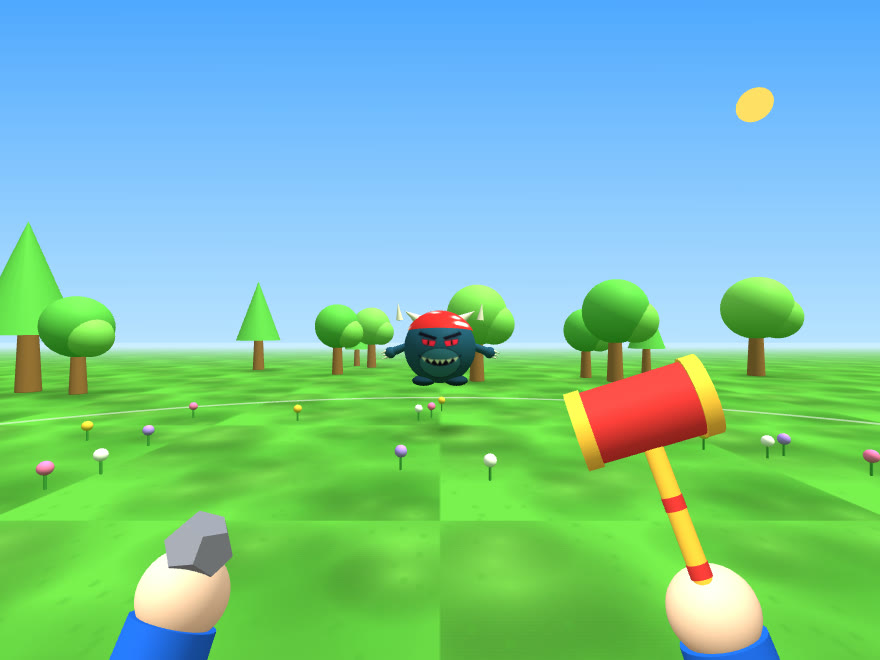
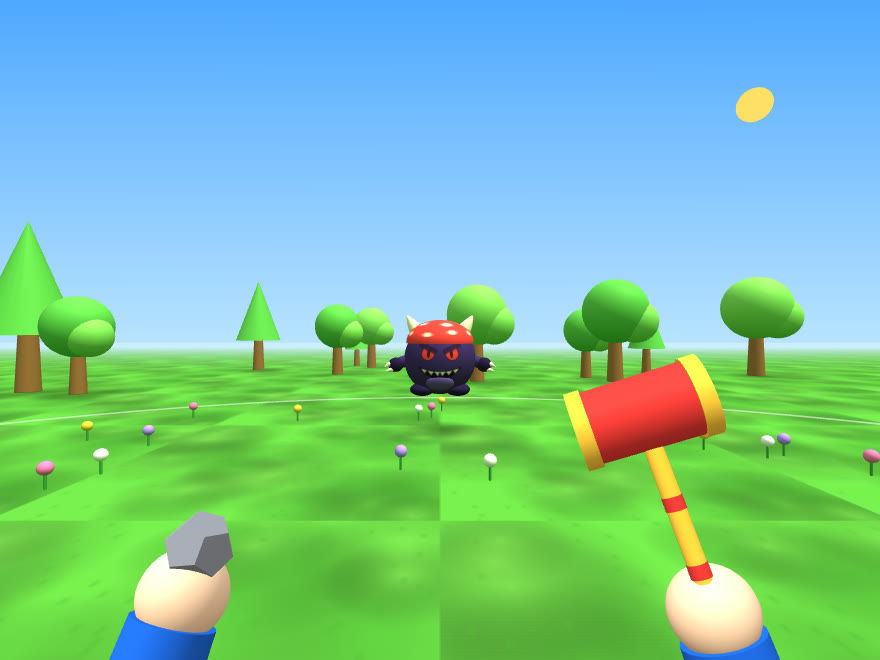
feat: DOUMY 3D 주인공과 더미를 말랑 장난감 모습으로 바꾸기
- Codex 이미지로 만든 캐릭터 시안을 보고 Codex가 3D 모델을 고침
- 주인공: 덥수룩한 갈색 머리, 발그레한 볼, 별 무늬 후드티,
  둥근 운동화, 뒤로 휘어 펄럭이는 망토
- 더미: 밝은 배 무늬, 굵은 눈썹과 이빨 웃음, 둥근 발톱 팔과 발.
  색 바뀜, 맵별 모자, 왕관·보스·무지개 더미는 그대로
- 대표 그림(thumb.jpg)을 새 더미 모습으로 다시 찍음

Changed region(s): [[0.4295, 0.4545, 0.583, 0.6061]]

diff --git a/games/doumy/index.html b/games/doumy/index.html
@@ -1389,12 +1389,9 @@ function geos(){
   GEO = {
     body: shared(new THREE.SphereGeometry(DR, 32, 24)),
     face: shared(new THREE.SphereGeometry(DR * 1.012, 32, 20, Math.PI / 2 - Math.PI * 0.45, Math.PI * 0.9, Math.PI * 0.25, Math.PI * 0.6)),
-    hornA: shared(new THREE.ConeGeometry(DR * 0.17, DR * 0.55, 12)),
-    hornB: shared(new THREE.ConeGeometry(DR * 0.1, DR * 0.5, 10)),
-    foot: shared(new THREE.SphereGeometry(DR * 0.32, 14, 10)),
-    arm: shared(new THREE.CylinderGeometry(DR * 0.1, DR * 0.12, DR * 0.5, 10)),
-    hand: shared(new THREE.SphereGeometry(DR * 0.16, 10, 8)),
-    claw: shared(new THREE.ConeGeometry(DR * 0.045, DR * 0.2, 6)),
+    horn: shared(new THREE.LatheGeometry([[0, 0], [0.15, 0], [0.185, 0.045], [0.18, 0.11], [0.13, 0.27], [0.055, 0.44], [0.018, 0.49], [0, 0.5]].map(([r, y]) => new THREE.Vector2(r * DR, y * DR)), 18)),
+    cap: shared(new THREE.SphereGeometry(DR, 32, 16, 0, Math.PI * 2, 0, Math.PI * 0.52)),
+    ball: shared(new THREE.SphereGeometry(1, 20, 16)),
     shell: shared(new THREE.SphereGeometry(DR * 1.15, 24, 18)),
     shadow: shared(new THREE.CircleGeometry(DR * 0.95, 24)),
     ring: shared(new THREE.RingGeometry(DR * 0.9, DR * 1.1, 32))
@@ -1402,8 +1399,6 @@ function geos(){
   return GEO;
 }
 // 얼굴 그림을 공 모양에 맞게 펴서 그려요 (2편과 같은 방법)
-const BROW  = [[-0.576,-0.455],[-0.061,-0.303],[-0.121,-0.242],[-0.606,-0.379]];
-const EYEP  = [[-0.515,-0.273],[-0.091,-0.212],[-0.152,-0.061],[-0.455,-0.121]];
 const TEETH = [[-0.515,0.197],[-0.424,0.333],[-0.333,0.242],[-0.242,0.379],[-0.152,0.273],[-0.061,0.409],[0,0.288],[0.061,0.409],[0.152,0.273],[0.242,0.379],[0.333,0.242],[0.424,0.333],[0.515,0.197]];
 function paintFace(g, P, mood){
   g.clearRect(0, 0, 512, 256);
@@ -1412,10 +1407,6 @@ function paintFace(g, P, mood){
     const ax = Math.asin(Math.max(-1, Math.min(1, x / st)));
     g.save(); g.translate(256 + ax * 181, (th - Math.PI * 0.25) / (Math.PI * 0.6) * 256); g.scale(181 / st, 136 / st); fn(); g.restore();
   };
-  const poly = (pts, ox, oy) => { g.beginPath(); pts.forEach(([x, y], i) => i ? g.lineTo(x - ox, y - oy) : g.moveTo(x - ox, y - oy)); g.closePath(); g.fill(); };
-  const mir = pts => pts.map(([x, y]) => [-x, y]);
-  // 배
-  at(0, 0.42, () => { g.fillStyle = P.belly; g.beginPath(); g.ellipse(0, 0, 0.56, 0.42, 0, 0, Math.PI * 2); g.fill(); });
   if (mood === 'dead'){
     g.strokeStyle = '#ffffff'; g.lineCap = 'round';
     for (const sx of [-1, 1]) at(sx * 0.3, -0.17, () => {
@@ -1425,27 +1416,25 @@ function paintFace(g, P, mood){
     return;
   }
   const laugh = mood === 'laugh';
-  // 눈썹
-  at(-0.33, -0.37, () => { g.fillStyle = '#0f0a1a'; poly(BROW, -0.33, -0.37); });
-  at(0.33, -0.37, () => { g.fillStyle = '#0f0a1a'; poly(mir(BROW), 0.33, -0.37); });
-  // 빨간 눈
-  const sq = laugh ? 0.4 : 1;
-  const eye = EYEP.map(([x, y]) => [x, -0.167 + (y + 0.167) * sq]);
-  at(-0.3, -0.17, () => {
-    g.fillStyle = '#ff2240'; poly(eye, -0.3, -0.17);
-    if (!laugh){ g.fillStyle = '#111111'; g.fillRect(-0.025, -0.06, 0.05, 0.12); }
-  });
-  at(0.3, -0.17, () => {
-    g.fillStyle = '#ff2240'; poly(mir(eye), 0.3, -0.17);
-    if (!laugh){ g.fillStyle = '#111111'; g.fillRect(-0.025, -0.06, 0.05, 0.12); }
-  });
+  // 눈을 흘기고 씩 웃어요
+  for (const side of [-1, 1]){
+    at(side * 0.32, -0.19, () => {
+      g.scale(side, laugh ? 0.55 : 1);
+      g.fillStyle = '#f33c30'; g.beginPath(); g.ellipse(0, 0, 0.18, 0.17, -0.2, 0, Math.PI * 2); g.fill();
+      g.fillStyle = '#211524'; g.beginPath(); g.ellipse(-0.025, 0.005, 0.038, 0.106, 0, 0, Math.PI * 2); g.fill();
+    });
+    at(side * 0.32, -0.34, () => {
+      g.scale(side, 1); g.lineCap = 'round'; g.lineWidth = 0.115; g.strokeStyle = '#331d39';
+      g.beginPath(); g.moveTo(-0.19, 0.085); g.quadraticCurveTo(0, 0.025, 0.21, -0.105); g.stroke();
+    });
+  }
   // 톱니 이빨 입
   at(0, 0.27, () => {
-    const oy = 0.27, open = laugh ? 0.95 : 0.758;
+    const oy = 0.27, open = laugh ? 1.04 : 0.86;
     g.fillStyle = '#12091f';
     g.beginPath(); g.moveTo(-0.606, 0.152 - oy);
     g.quadraticCurveTo(0, open - oy, 0.606, 0.152 - oy); g.quadraticCurveTo(0, 0.394 - oy, -0.606, 0.152 - oy); g.fill();
-    g.fillStyle = '#fffbe6';
+    g.fillStyle = '#fff0ce';
     g.beginPath(); TEETH.forEach(([x, y], i) => i ? g.lineTo(x, y - oy) : g.moveTo(x, y - oy));
     g.quadraticCurveTo(0, 0.364 - oy, -0.515, 0.197 - oy); g.fill();
   });
@@ -1455,12 +1444,16 @@ function stripeTex(c1, c2, n){ return texFrom(128, 128, (g) => { for (let i = 0;
 function addCostume(rig, m){
   const top = DR * 2.02;
   if (m === 'basic'){
-    const dots = texFrom(128, 64, (g) => { g.fillStyle = '#c62828'; g.fillRect(0, 0, 128, 64); g.fillStyle = '#ffffff'; for (let i = 0; i < 14; i++){ g.beginPath(); g.arc(rnd(i + 900) * 128, rnd(i + 910) * 64, 4, 0, 7); g.fill(); } });
-    const cap = mesh(new THREE.SphereGeometry(DR * 1.04, 24, 12, 0, Math.PI * 2, 0, Math.PI * 0.36), L('#ffffff', { map: dots }), 0, DR, 0, rig);
-    cap.rotation.x = -0.12;
-    const knot = L('#a61d1d');
-    const k1 = mesh(new THREE.ConeGeometry(DR * 0.12, DR * 0.45, 6), knot, 0, DR * 1.55, -DR * 0.95, rig); k1.rotation.x = -2.2;
-    const k2 = mesh(new THREE.ConeGeometry(DR * 0.12, DR * 0.4, 6), knot, DR * 0.12, DR * 1.4, -DR * 1.0, rig); k2.rotation.set(-2.6, 0, 0.5);
+    const dots = texFrom(256, 128, g => {
+      g.fillStyle = '#ed4039'; g.fillRect(0, 0, 256, 128); g.fillStyle = '#fff2d0';
+      for (const [count, y, rx, ry] of [[5, 49, 10, 9], [8, 92, 6, 8]]){
+        for (let i = 0; i < count; i++){
+          g.beginPath(); g.ellipse((i + 0.5) * 256 / count, y + 5 * Math.sin(i * 2), rx, ry, 0, 0, Math.PI * 2); g.fill();
+        }
+      }
+    });
+    const cap = mesh(geos().cap, L('#ffffff', { map: dots, side: THREE.DoubleSide }), 0, DR * 1.48, 0, rig);
+    cap.scale.set(0.94, 0.61, 0.91);
   } else if (m === 'city'){
     const band = mesh(new THREE.TorusGeometry(DR * 1.02, DR * 0.07, 8, 24, Math.PI), L('#222222'), 0, DR * 1.05, 0, rig);
     band.rotation.y = Math.PI / 2;
@@ -1492,22 +1485,30 @@ function makeModel(d){
   const faceTex = new THREE.CanvasTexture(fc);
   const face = mesh(G.face, L('#ffffff', { map: faceTex, transparent: true, alphaTest: 0.04 }), 0, DR, 0, rig); face.scale.copy(body.scale);
   // 큰 상아색 뿔
-  const hornMat = L('#e6e0d0');
+  const hornMat = L('#fff0cb');
   for (const sx of [-1, 1]){
-    const hg = new THREE.Group(); hg.position.set(sx * DR * 0.55, DR * 1.75, 0); hg.rotation.z = -sx * 1.0; rig.add(hg);
-    mesh(G.hornA, hornMat, 0, DR * 0.25, 0, hg);
-    const tip = mesh(G.hornB, hornMat, sx * DR * 0.1, DR * 0.65, 0, hg); tip.rotation.z = sx * 0.9;
+    const horn = mesh(G.horn, hornMat, sx * DR * 0.66, DR * 1.79, 0, rig);
+    horn.rotation.z = -sx * 0.55;
   }
   const footMat = L(P.deep), feet = [];
-  // 발은 몸(rig)에 붙여서 뛸 때 같이 올라가요
-  for (const sx of [-1, 1]){ const f = mesh(G.foot, footMat, sx * DR * 0.45, DR * 0.1, DR * 0.12, rig); f.scale.set(1, 0.45, 1.3); feet.push(f); }
-  // 발톱 팔
+  // 통통한 배와 작은 발
+  const belly = mesh(G.ball, L(P.belly), 0, DR * 0.40, DR * 0.70, rig);
+  belly.scale.set(DR * 0.37, DR * 0.23, DR * 0.14); belly.rotation.x = 0.58;
+  for (const sx of [-1, 1]){
+    const f = mesh(G.ball, footMat, sx * DR * 0.49, DR * 0.17, DR * 0.16, rig);
+    f.scale.set(DR * 0.34, DR * 0.18, DR * 0.40); feet.push(f);
+  }
   const arms = [];
   for (const sx of [-1, 1]){
-    const pivot = new THREE.Group(); pivot.position.set(sx * DR * 0.9, DR * 1.05, 0); rig.add(pivot);
-    mesh(G.arm, bodyMat, 0, -DR * 0.25, 0, pivot);
-    mesh(G.hand, bodyMat, 0, -DR * 0.52, 0, pivot);
-    for (let c = -1; c <= 1; c++){ const cl = mesh(G.claw, hornMat, c * DR * 0.08, -DR * 0.7, DR * 0.05, pivot); cl.rotation.x = Math.PI; }
+    const pivot = new THREE.Group(); pivot.position.set(sx * DR * 0.86, DR * 0.99, DR * 0.08); rig.add(pivot);
+    const arm = mesh(G.ball, bodyMat, 0, -DR * 0.19, 0, pivot);
+    arm.scale.set(DR * 0.16, DR * 0.29, DR * 0.17);
+    const paw = mesh(G.ball, footMat, 0, -DR * 0.39, DR * 0.06, pivot);
+    paw.scale.set(DR * 0.20, DR * 0.21, DR * 0.20);
+    for (const c of [-1, 1]){
+      const claw = mesh(G.horn, hornMat, c * DR * 0.083, -DR * 0.51, DR * 0.14, pivot);
+      claw.scale.setScalar(0.38); claw.rotation.set(2.85, 0, c * 0.13);
+    }
     arms.push(pivot);
   }
   if (d.rainbow){
@@ -1676,44 +1677,94 @@ function buildHero(){
   hero = new THREE.Group(); hero.visible = false; scene.add(hero);
   const skin = L('#ffd9b3'), shirt = L(lk.shirt), pants = L(lk.pants), shoe = L(lk.shoe);
   const u = { legs: [], prop: null, cape: null };
+  const ball = (mat, x, y, z, rx, ry, rz, parent = hero) => {
+    const part = mesh(geos().ball, mat, x, y, z, parent);
+    part.scale.set(rx, ry, rz); return part;
+  };
+  const cream = L('#fff3de');
   for (const sx of [-1, 1]){
-    const lp = new THREE.Group(); lp.position.set(sx * 8, 44, 0); hero.add(lp);
-    mesh(new THREE.CylinderGeometry(5.5, 5, 40, 10), pants, 0, -20, 0, lp);
-    mesh(new THREE.BoxGeometry(12, 7, 18), shoe, 0, -41, 3, lp);
+    const lp = new THREE.Group(); lp.position.set(sx * 9, 44, 0); hero.add(lp);
+    ball(pants, 0, -17, 0, 8.5, 23, 8.5, lp);
+    ball(cream, 0, -40, 4, 9, 4, 13, lp);
+    ball(shoe, 0, -36, 4, 9, 6, 12.7, lp);
+    ball(cream, 0, -32, 9, 5.5, 1.5, 2, lp);
     u.legs.push(lp);
   }
-  if (m === 'halloween') mesh(new THREE.CylinderGeometry(14, 22, 60, 14), shirt, 0, 58, 0, hero);
-  else mesh(new THREE.CylinderGeometry(15, 16, 40, 14), shirt, 0, 64, 0, hero);
-  if (m === 'basic'){ const st = mesh(new THREE.OctahedronGeometry(7), L('#ffcf3f'), 0, 68, 15, hero); st.scale.set(1, 1, 0.3); }
+  ball(shirt, 0, 63, 0, 21, 24, 16);
+  ball(shirt, 0, 48, 0, 19, 7, 14);
+  if (m === 'halloween') mesh(new THREE.CylinderGeometry(14, 22, 39, 20), shirt, 0, 55, 0, hero);
+  if (m === 'basic'){
+    const star = new THREE.Shape();
+    for (let i = 0; i < 10; i++){
+      const a = Math.PI / 2 + i * Math.PI / 5, r = i % 2 ? 4.3 : 8;
+      if (i) star.lineTo(r * Math.cos(a), r * Math.sin(a)); else star.moveTo(0, r);
+    }
+    star.closePath();
+    mesh(new THREE.ExtrudeGeometry(star, { depth: 0.8, bevelThickness: 0.7, bevelSize: 0.7, bevelSegments: 2 }), L('#ffcf44'), 0, 66, 15.3, hero);
+  }
   if (m === 'park') [56, 68].forEach(y => { const r = mesh(new THREE.TorusGeometry(15.6, 1.8, 6, 20), L('#e53935'), 0, y, 0, hero); r.rotation.x = Math.PI / 2; });
   if (m === 'city') mesh(new THREE.BoxGeometry(18, 9, 4), L('#37474f'), 0, 56, 15, hero);
   if (m === 'basic' || m === 'halloween'){
-    const capeP = new THREE.Group(); capeP.position.set(0, 82, -15); hero.add(capeP);
-    mesh(new THREE.PlaneGeometry(34, 62), L(m === 'basic' ? '#e53935' : '#1a0a2e', { side: THREE.DoubleSide }), 0, -31, 0, capeP);
+    const capeP = new THREE.Group(); capeP.position.set(0, 82, -10); hero.add(capeP);
+    const cloth = new THREE.PlaneGeometry(2, 1, 16, 10), pos = cloth.attributes.position;
+    for (let i = 0; i < pos.count; i++){
+      const x = pos.getX(i), t = 0.5 - pos.getY(i);
+      pos.setXYZ(i, x * (13 + 13 * t), -54 * t + 2 * t * t * Math.cos(5 * x),
+        -5 - 11 * t + 7 * x * x + 1.6 * t * Math.cos(7 * x));
+    }
+    cloth.computeVertexNormals();
+    mesh(cloth, L(m === 'basic' ? '#df3737' : '#30153f', { side: THREE.DoubleSide }), 0, 0, 0, capeP);
     u.cape = capeP;
   }
-  mesh(new THREE.SphereGeometry(16, 18, 14), skin, 0, 101, 0, hero);
-  mesh(new THREE.SphereGeometry(16.8, 18, 10, 0, Math.PI * 2, 0, Math.PI * 0.5), L('#3b2a20'), 0, 103, -1, hero);
-  [-1, 1].forEach(sx => mesh(new THREE.SphereGeometry(2.2, 8, 6), L('#2a1f45'), sx * 5.5, 102, 15, hero));
-  if (m === 'basic') mesh(new THREE.BoxGeometry(31, 6, 4), L('#1e63d6'), 0, 102, 13.5, hero);
+  // 후드는 목 뒤에 폭신하게 걸쳐요
+  ball(shirt, 0, 80, -11, 20, 10, 11);
+  const faceMap = texFrom(512, 256, g => {
+    g.fillStyle = '#ffd3af'; g.fillRect(0, 0, 512, 256);
+    const oval = (x, y, w, h, color) => {
+      g.fillStyle = color; g.beginPath(); g.ellipse(x, y, w, h, 0, 0, Math.PI * 2); g.fill();
+    };
+    for (const side of [-1, 1]){
+      const x = 128 + side * 29;
+      oval(x, 128, 12, 18, '#fff5e4'); oval(x, 129, 8, 14, '#412a25');
+      oval(x - 2, 123, 2.7, 3.6, '#ffffff'); oval(128 + side * 47, 151, 12, 7, '#f6a08e');
+      g.strokeStyle = '#75432d'; g.lineWidth = 5; g.lineCap = 'round'; g.beginPath();
+      g.moveTo(x - 8, 102); g.quadraticCurveTo(x, 94, x + 8, 101); g.stroke();
+    }
+    g.fillStyle = '#76372f'; g.beginPath(); g.moveTo(113, 153); g.quadraticCurveTo(128, 157, 143, 153);
+    g.bezierCurveTo(140, 178, 116, 178, 113, 153); g.fill(); oval(128, 166, 7, 3, '#fb907a');
+  });
+  ball(L('#ffffff', { map: faceMap }), 0, 101, 0, 22, 22, 20);
+  ball(skin, 0, 99, 20, 2.8, 2.1, 2);
+  const hair = L('#78452e'), lock = L('#885037');
+  ball(hair, 0, 104, -5, 23, 21, 18);
+  for (const side of [-1, 1]){
+    ball(skin, side * 21, 99, 0, 4.4, 6, 4);
+    ball(hair, side * 19, 109, 3, 5.5, 11, 8).rotation.z = side * 0.28;
+  }
+  // 앞머리와 뒷머리를 한 줌씩 포개요
+  for (const [x,y,z,rx,ry,rz,tilt] of [
+    [-12,115,11,7,12,7,-0.65], [2,117,13,8,13,7,-0.92], [14,114,9,6,11,7,0.58],
+    [-13,113,-12,8,13,7,-0.58], [1,116,-15,9,14,7,0.73], [14,111,-11,7,12,7,0.55]
+  ]) ball(lock, x, y, z, rx, ry, rz).rotation.z = tilt;
+  if (m === 'basic') ball(lock, -2, 124, -2, 4.3, 10, 5).rotation.z = -1.05;
   if (m === 'city'){
-    mesh(new THREE.SphereGeometry(17.5, 16, 8, 0, Math.PI * 2, 0, Math.PI * 0.5), L('#e53935'), 0, 104, 0, hero);
-    mesh(new THREE.BoxGeometry(18, 3, 14), L('#e53935'), 0, 106, -20, hero);
+    mesh(new THREE.SphereGeometry(24, 24, 8, 0, Math.PI * 2, 0, Math.PI * 0.5), L('#e53935'), 0, 110, -1, hero);
+    mesh(new THREE.BoxGeometry(18, 3, 14), L('#e53935'), 0, 112, -24, hero);
   } else if (m === 'park'){
     const cols = ['#ff5a5a', '#ffcf3f', '#4dd4ff', '#7CFF6B'];
-    cols.forEach((c, i) => mesh(new THREE.SphereGeometry(17.4, 8, 8, i * Math.PI / 2, Math.PI / 2, 0, Math.PI * 0.5), L(c), 0, 104, 0, hero));
-    mesh(new THREE.CylinderGeometry(1.2, 1.2, 10, 6), L('#555555'), 0, 125, 0, hero);
-    const prop = new THREE.Group(); prop.position.y = 130; hero.add(prop);
+    cols.forEach((c, i) => mesh(new THREE.SphereGeometry(24, 10, 8, i * Math.PI / 2, Math.PI / 2, 0, Math.PI * 0.5), L(c), 0, 110, -1, hero));
+    mesh(new THREE.CylinderGeometry(1.2, 1.2, 10, 6), L('#555555'), 0, 137, 0, hero);
+    const prop = new THREE.Group(); prop.position.y = 142; hero.add(prop);
     mesh(new THREE.BoxGeometry(30, 1.5, 5), L('#e53935'), 0, 0, 0, prop); u.prop = prop;
   } else if (m === 'halloween'){
-    mesh(new THREE.CylinderGeometry(26, 26, 2, 20), L('#4a148c'), 0, 110, 0, hero);
-    const c = mesh(new THREE.ConeGeometry(14, 40, 14), L('#4a148c'), 2, 130, 0, hero); c.rotation.z = -0.2;
-    mesh(new THREE.OctahedronGeometry(4), L('#ffcf3f'), 0, 122, 13, hero);
+    mesh(new THREE.CylinderGeometry(26, 26, 2, 20), L('#4a148c'), 0, 121, 0, hero);
+    const c = mesh(new THREE.ConeGeometry(14, 40, 14), L('#4a148c'), 2, 141, 0, hero); c.rotation.z = -0.2;
+    mesh(new THREE.OctahedronGeometry(4), L('#ffcf3f'), 0, 133, 13, hero);
   }
   const arm = (sx) => {
     const g = new THREE.Group(); g.position.set(sx * 19, 80, 0); hero.add(g);
-    mesh(new THREE.CylinderGeometry(4.5, 4, 30, 10), shirt, 0, -15, 0, g);
-    mesh(new THREE.SphereGeometry(5, 10, 8), skin, 0, -32, 0, g);
+    ball(shirt, 0, -13, 0, 7, 17, 7, g);
+    ball(skin, 0, -31, 0, 6, 7, 6, g);
     return g;
   };
   u.armR = arm(-1); u.armL = arm(1);
@@ -1739,7 +1790,7 @@ function updateHero(){
   u.stone.visible = has;
   if (has) u.stone.material.color.set(game.sel ? ITEMS[game.sel].color : '#8a8f99');
   if (u.prop) u.prop.rotation.y = game.t * 18;
-  if (u.cape) u.cape.rotation.x = -(0.12 + (me.walkT > 0 ? 0.45 : 0) + Math.sin(game.t * 6) * 0.05);
+  if (u.cape) u.cape.rotation.x = 0.12 + (me.walkT > 0 ? 0.45 : 0) + Math.sin(game.t * 6) * 0.05;
 }
 function setView(v){
   game.view = v === 3 ? 3 : 1;
